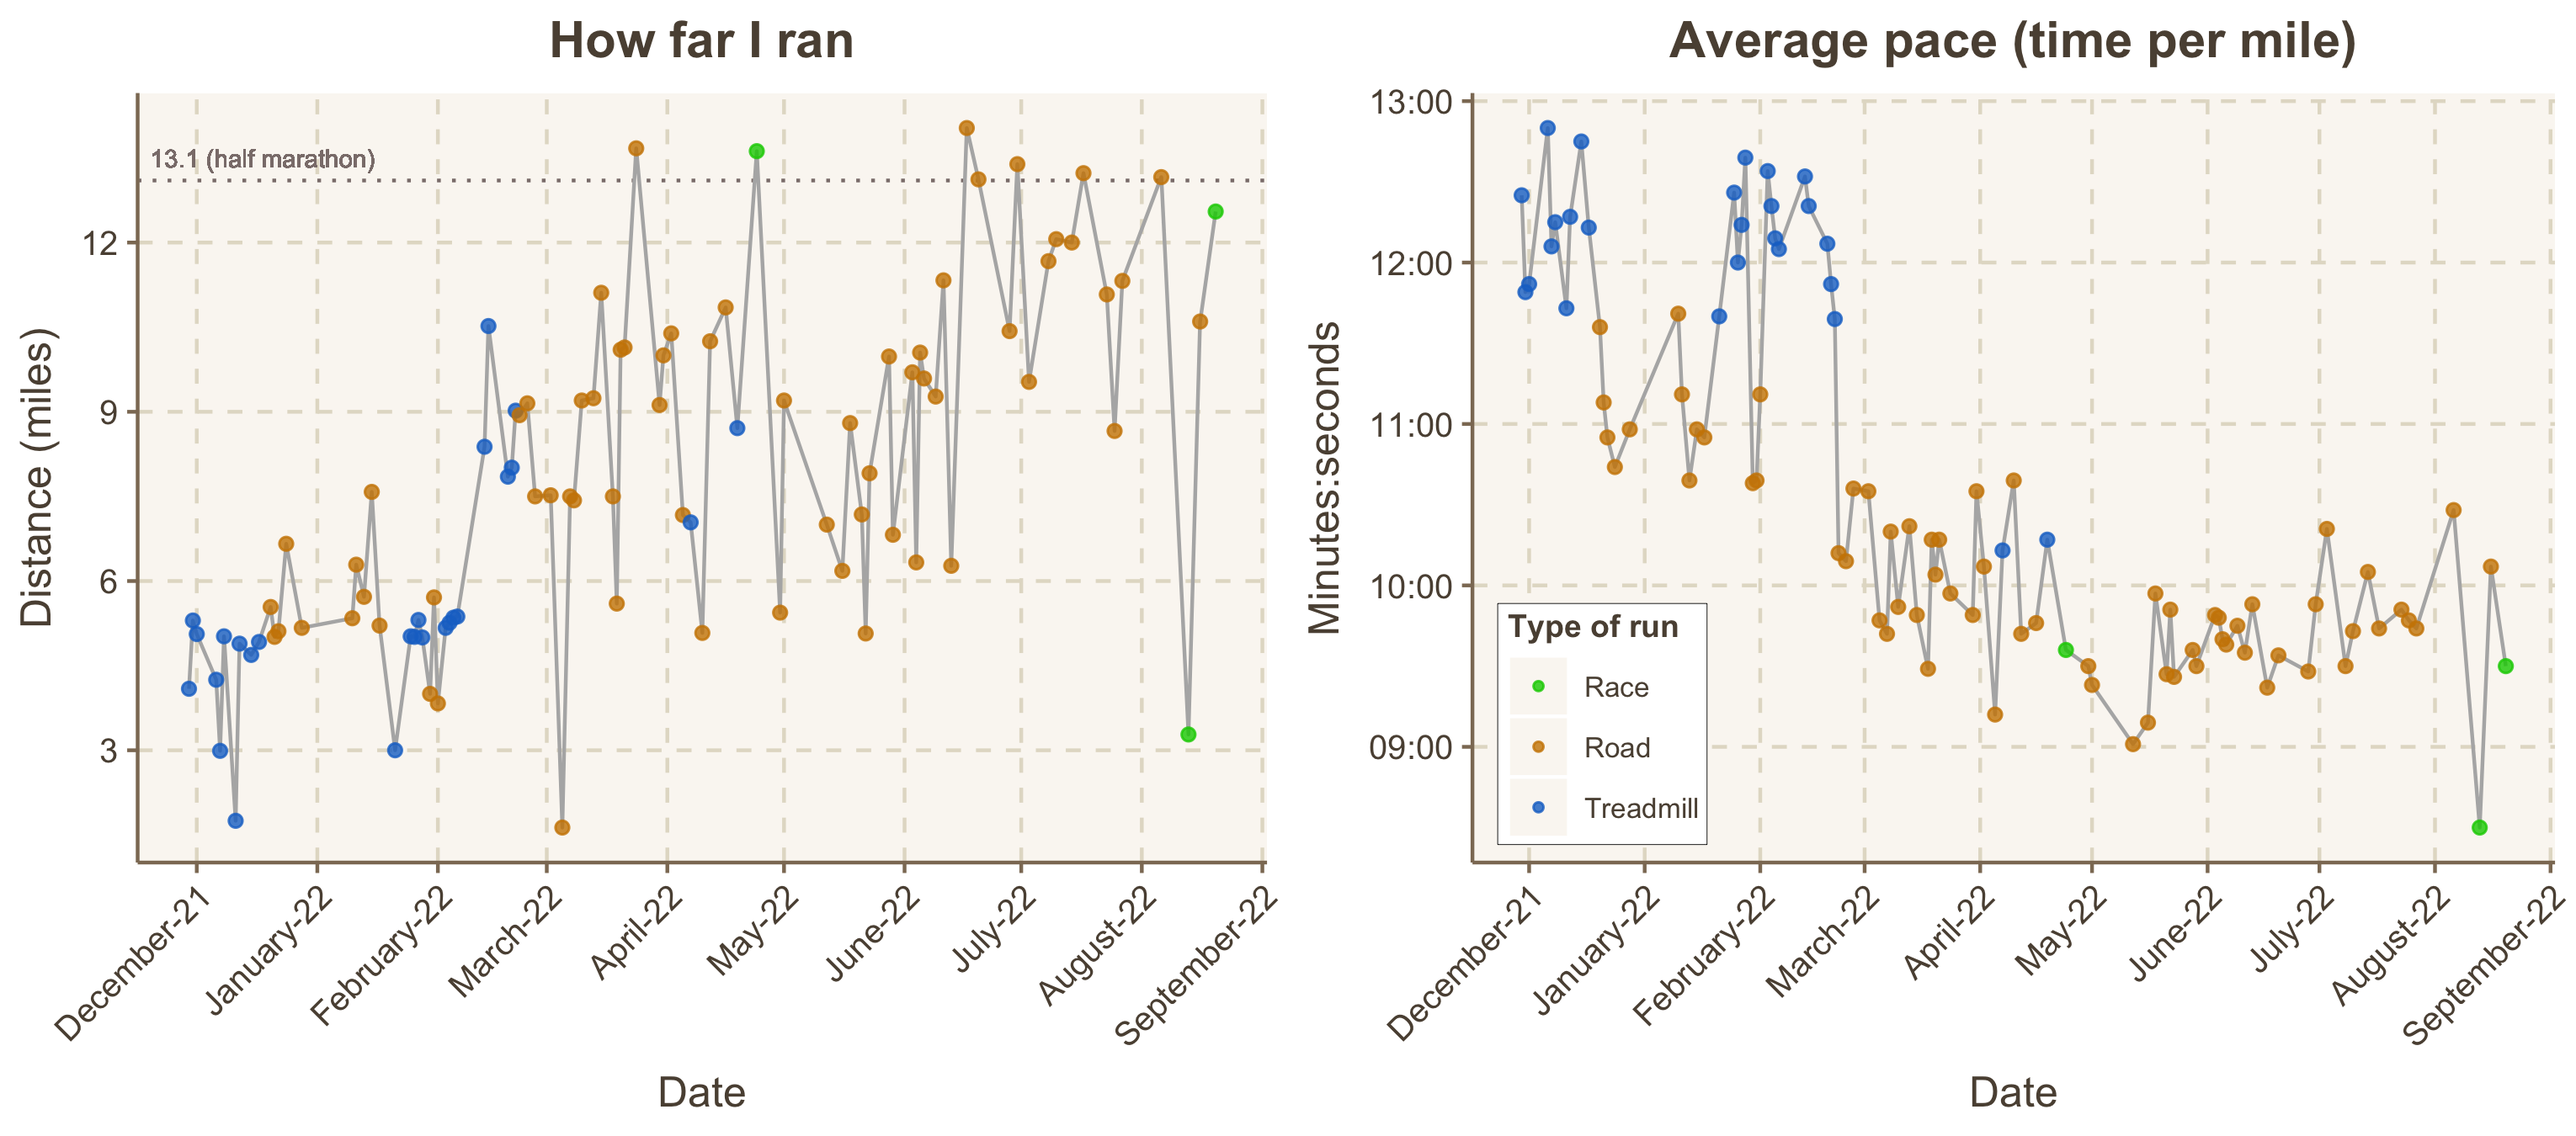
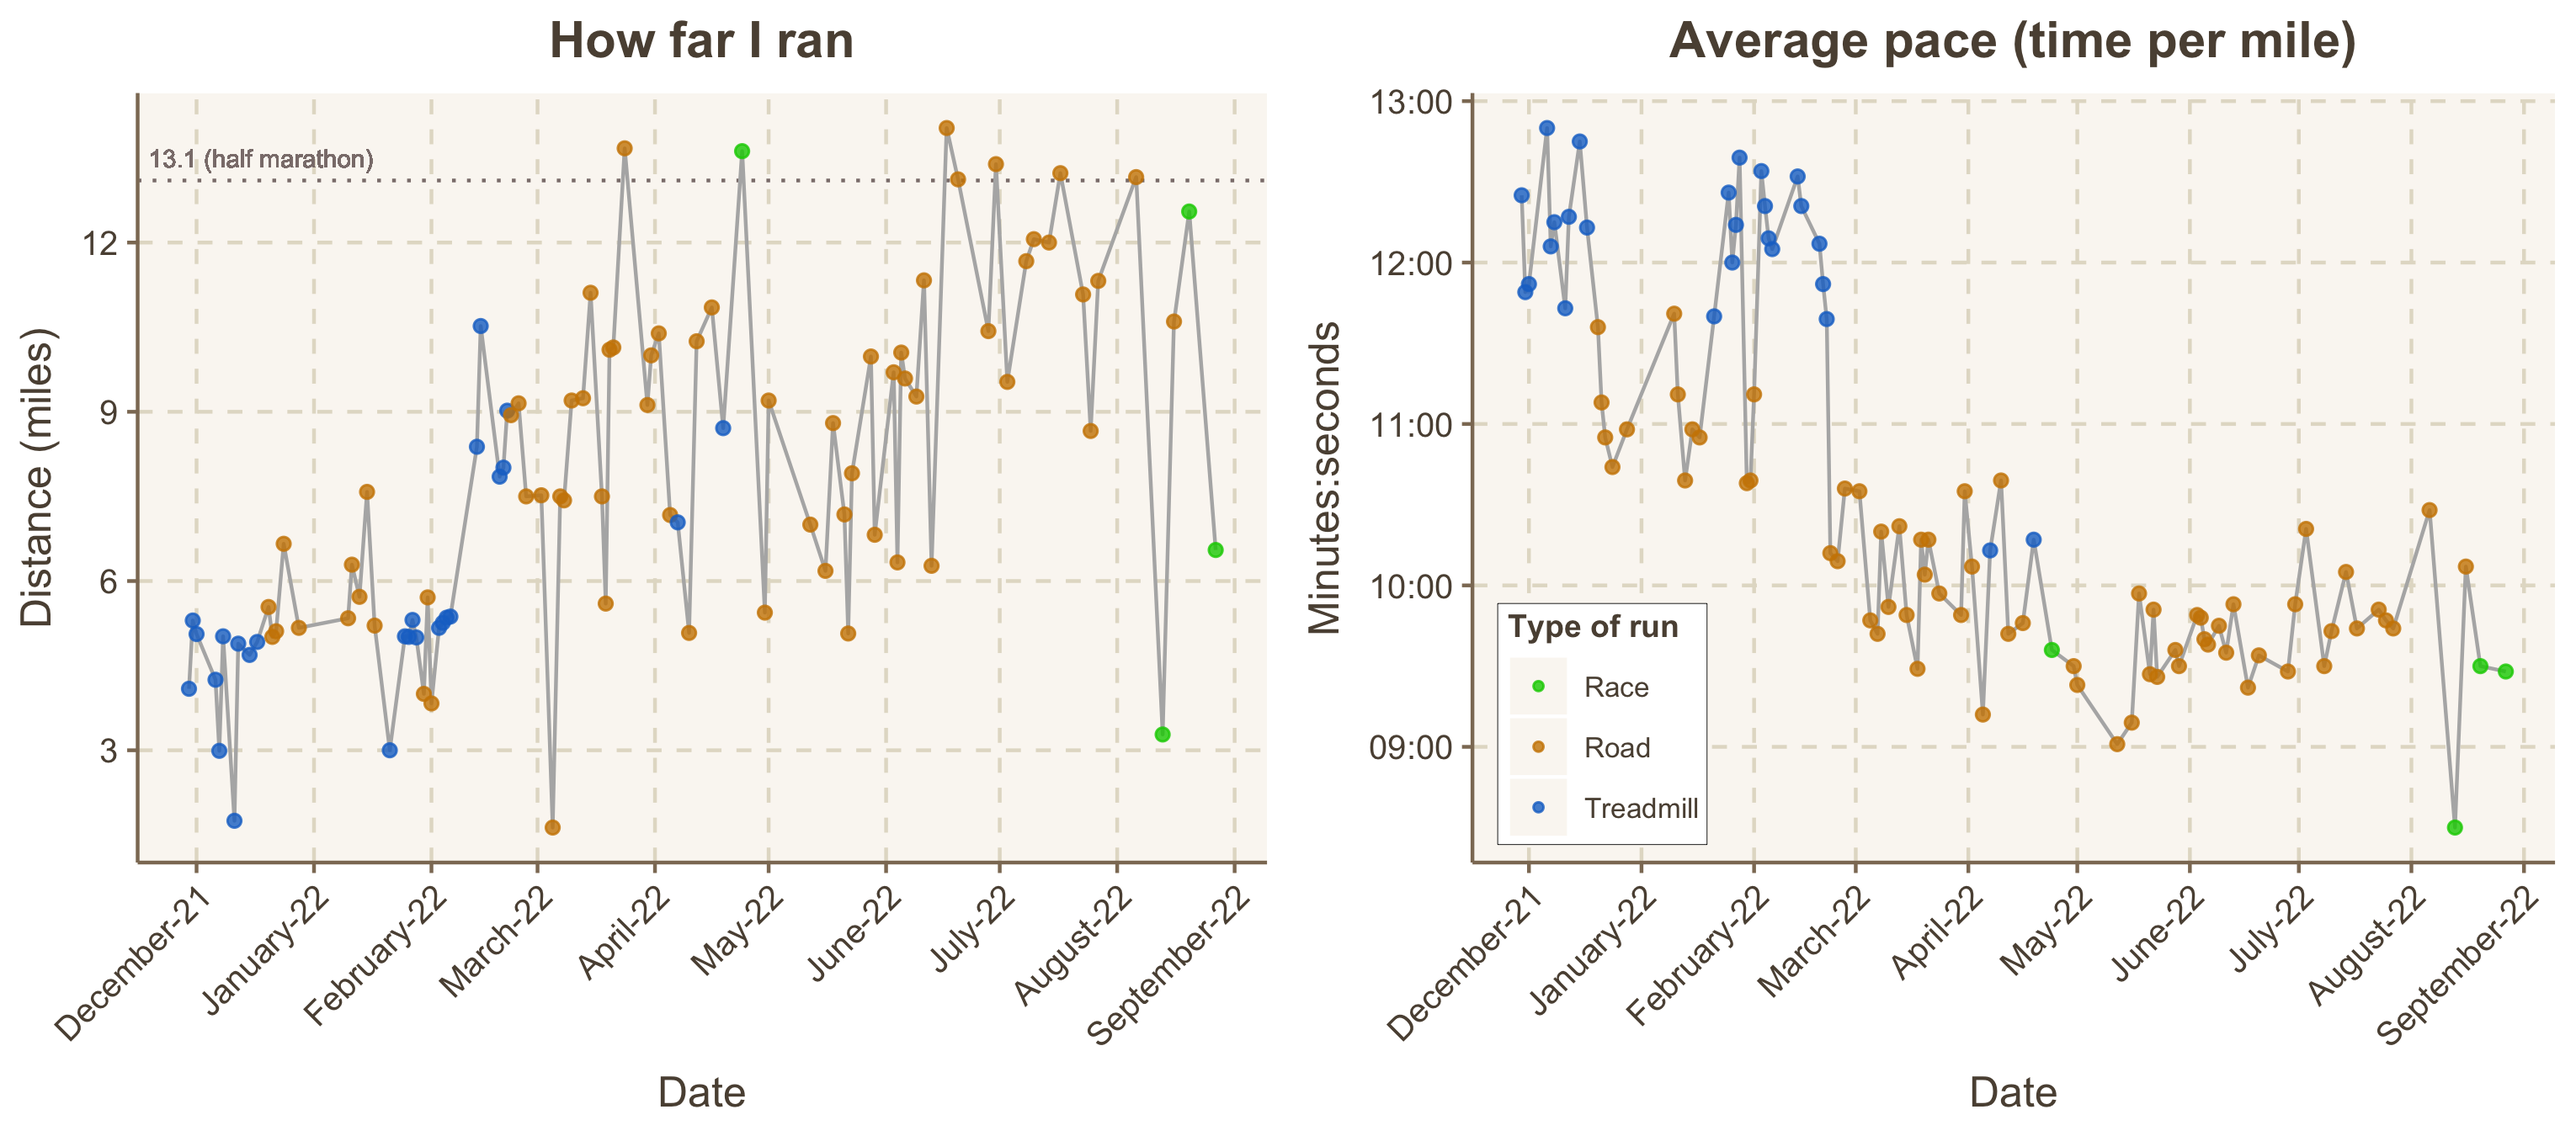
8/27/22 - NYRR Grete's 10K

diff --git a/README.md b/README.md
@@ -25,7 +25,7 @@ ggarrange(p1, p2, nrow=1)
 sum(runningData$Miles)
 ```
 
-    ## [1] 737.09
+    ## [1] 743.64
 
 Average distance during the last 10 runs:
 
@@ -33,4 +33,4 @@ Average distance during the last 10 runs:
 mean(tail(runningData$Miles, 10))
 ```
 
-    ## [1] 10.794
+    ## [1] 10.243
